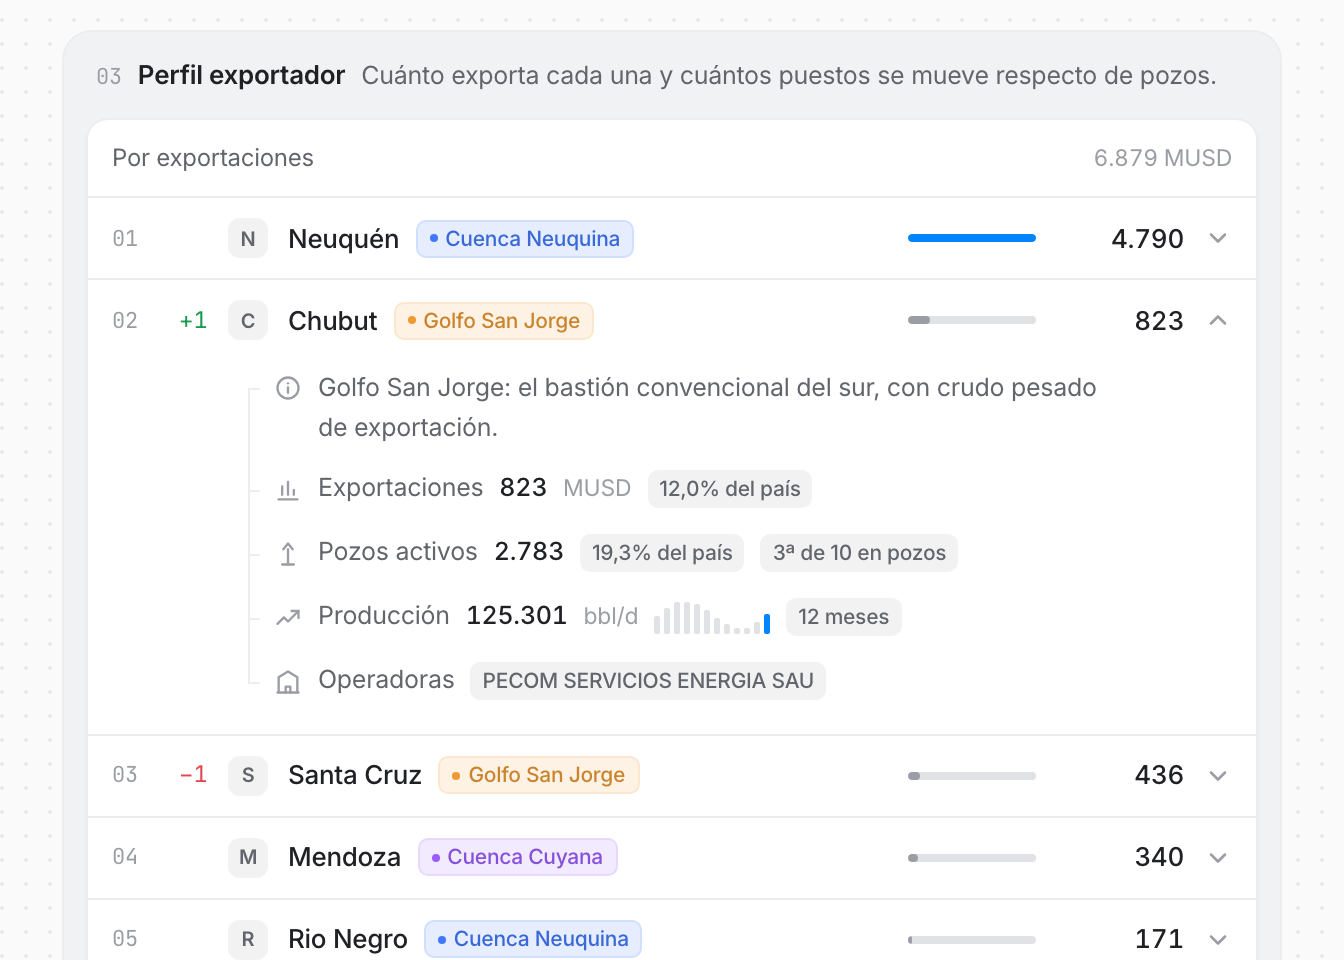
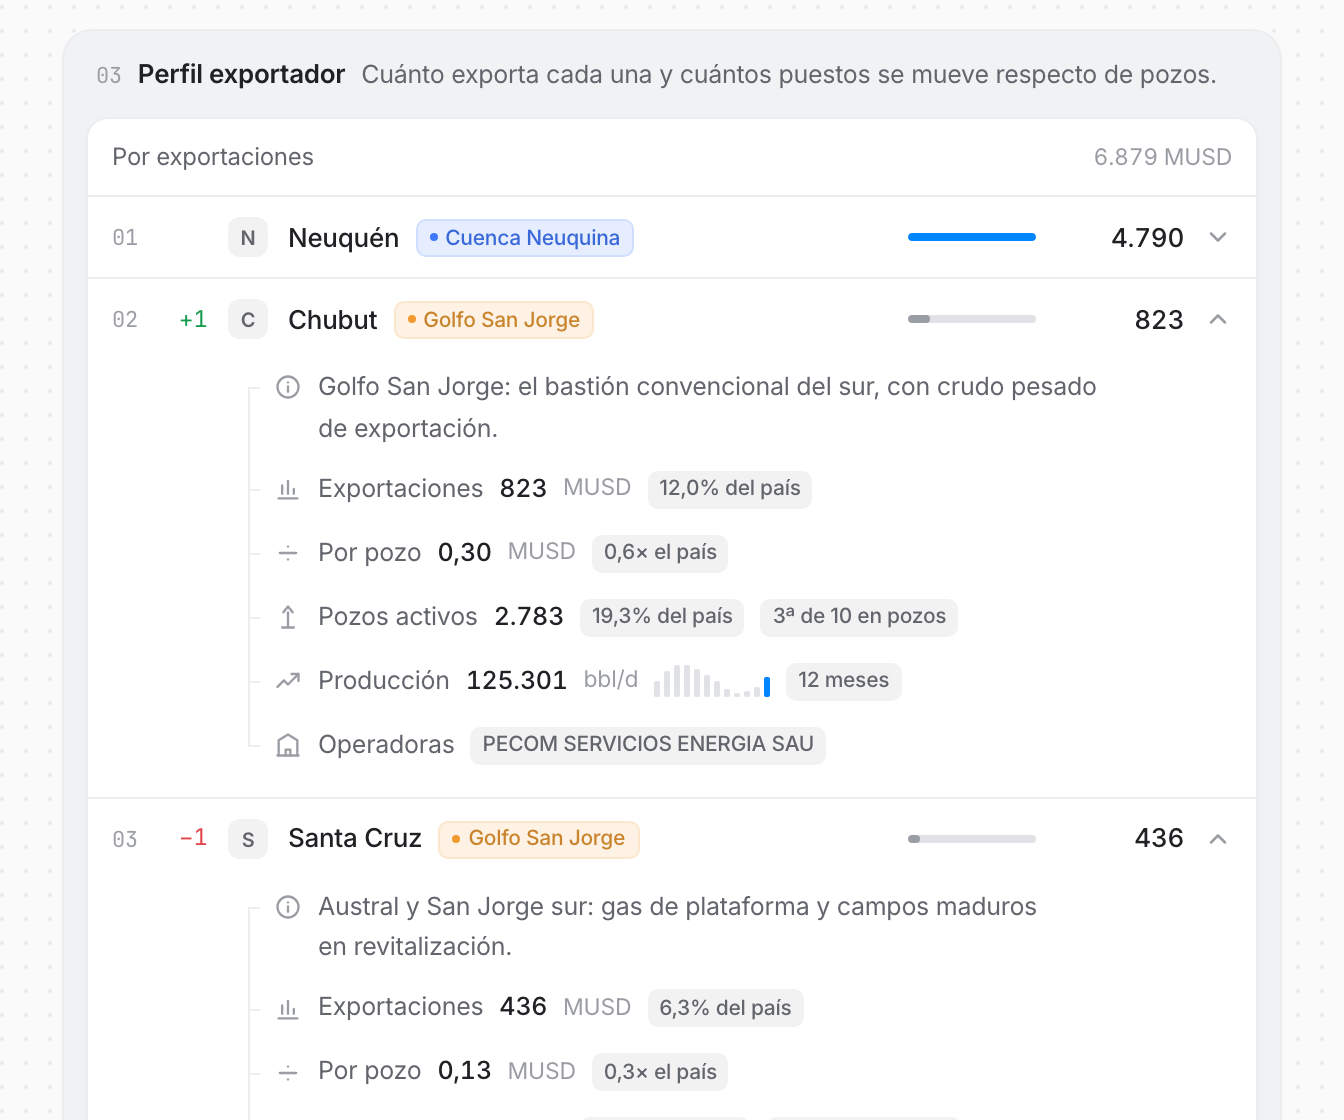
v2(provincias): "por pozo" — la lectura de exportaciones que explica el movimiento
El desglose de la lista de exportaciones ya abría por exportaciones, pero las
lecturas de adentro seguían siendo de pozos: cuántos hay y cuánto producen.

Se agrega "Por pozo": los MUSD que exporta cada pozo activo. Sale de dividir
dos cifras reales del sitio, no de derivar nada, y es justamente lo que explica
la columna de movimiento que la sección muestra al costado. Chubut sube un
puesto sobre Santa Cruz porque exporta 0,30 MUSD por pozo contra 0,13, con 500
pozos menos. El badge compara contra la vara del país —6.879/14.441 = 0,476—,
así que Chubut es 0,6× y Neuquén 2,1×.

Va sólo en la lista de exportaciones, que es la regla que ya seguía el orden de
los pasos: las lecturas siguen a la métrica que ordena la lista.

El multiplicador NO se muestra debajo de 100 pozos. Ahí el cociente lo domina
el denominador y no dice nada de la provincia: Salta da 32,70 MUSD por pozo
—68,6 veces el país— sobre UN pozo, y el Estado Nacional 20,25 sobre ocho. En
esas cuatro filas el badge pasa a decir cuántos pozos hay, que es exactamente
lo que explica el número. Con menos de 100 pozos, uno solo mueve el cociente
más de un 1%.

Verificado a 375 / 640 / 1024 / 1440: pasos de 28 en desktop y 44 a 375, riel
con desfasaje 0 en las dos listas, cero desbordes.

diff --git a/apps/ui-prototype/src/app/v2/provincias/FilaProvincia.tsx b/apps/ui-prototype/src/app/v2/provincias/FilaProvincia.tsx
@@ -48,6 +48,7 @@ export function FilaProvincia({
   metrica,
   pctPozos,
   pctExpo,
+  promedioPorPozo,
   puestoPozos,
   puestoExpo,
   totalProvincias,
@@ -78,6 +79,9 @@ export function FilaProvincia({
       total de la cabecera. No confundir con Province.expSharePct, que tiene
       otro denominador: ver el comentario del fixture. */
   pctExpo: number
+  /** MUSD exportados por pozo activo en todo el país: 6.879 / 14.441 = 0,476.
+      Es la vara contra la que se compara la intensidad de cada provincia. */
+  promedioPorPozo: number
   /** puestos en cada ranking. Sin valor en el Estado Nacional, que aparece en
       las listas pero no es una provincia y no tiene puesto. */
   puestoPozos?: number
@@ -94,7 +98,14 @@ export function FilaProvincia({
   const pasos =
     metrica === 'pozos'
       ? (['pozos', 'produccion', 'exportaciones'] as const)
-      : (['exportaciones', 'pozos', 'produccion'] as const)
+      : (['exportaciones', 'intensidad', 'pozos', 'produccion'] as const)
+  /* Cuánto exporta cada pozo. Es la lectura que EXPLICA la columna de
+     movimiento: Chubut sube un puesto sobre Santa Cruz porque exporta 0,30
+     MUSD por pozo contra 0,13, con 500 pozos menos.
+
+     Y es honestamente de exportaciones, que era el reclamo: sale de dividir
+     dos cifras reales del sitio, no de derivar nada. */
+  const porPozo = p.exportsMUSD / p.wells
 
   return (
     <div style={{ borderBottom: '1px solid var(--line)' }}>
@@ -260,6 +271,27 @@ export function FilaProvincia({
                         : []),
                     ]}
                   />
+                ) : clave === 'intensidad' ? (
+                  /* El multiplicador contra el promedio del país sólo se
+                     muestra con 100 pozos o más. Debajo de eso el cociente lo
+                     domina el denominador y no dice nada de la provincia:
+                     Salta da 32,70 MUSD por pozo —68,6 veces el país— sobre UN
+                     pozo, y el Estado Nacional 20,25 sobre ocho. En esas filas
+                     el badge pasa a decir cuántos pozos hay, que es justamente
+                     lo que explica el número. Con menos de 100 pozos, uno solo
+                     mueve el cociente más de un 1%. */
+                  <Paso
+                    key="int"
+                    icono="intensidad"
+                    rotulo="Por pozo"
+                    valor={formatDecimal(porPozo, 2)}
+                    unidad="MUSD"
+                    badges={[
+                      p.wells >= 100
+                        ? `${formatDecimal(porPozo / promedioPorPozo, 1)}× el país`
+                        : `sobre ${formatInteger(p.wells)} ${p.wells === 1 ? 'pozo' : 'pozos'}`,
+                    ]}
+                  />
                 ) : clave === 'exportaciones' ? (
                   <Paso
                     key="expo"
@@ -347,7 +379,7 @@ function Paso({
   meses,
   badges,
 }: {
-  icono: 'pozo' | 'expo' | 'operadora' | 'produccion'
+  icono: 'pozo' | 'expo' | 'operadora' | 'produccion' | 'intensidad'
   rotulo: string
   valor?: string
   unidad?: string
@@ -412,6 +444,13 @@ function Paso({
           <>
             <path d="M3 17l5.5-5.5 3.5 3.5L21 6" />
             <path d="M15 6h6v6" />
+          </>
+        )}
+        {icono === 'intensidad' && (
+          <>
+            <path d="M5 12h14" />
+            <path d="M12 6.5h.01" />
+            <path d="M12 17.5h.01" />
           </>
         )}
         {icono === 'operadora' && (

diff --git a/apps/ui-prototype/src/app/v2/provincias/page.tsx b/apps/ui-prototype/src/app/v2/provincias/page.tsx
@@ -39,6 +39,8 @@ export default function V2Provincias() {
   }, new Map<string, { nombre: string; provincias: number; pozos: number }>()).values()]
     .sort((a, b) => b.pozos - a.pozos)
   const pozosEnCuencas = cuencas.reduce((s, c) => s + c.pozos, 0)
+  /* La vara de intensidad exportadora: MUSD por pozo activo en todo el país. */
+  const promedioPorPozo = totalExpo / totalPozos
   /* Los doce rótulos de mes son los mismos para todas las filas: se formatean
      una vez acá, en el servidor, y no once veces en el cliente. */
   const meses = NATIONAL_SERIES.slice(-12).map((m) => formatMonth(`${m.period}-01`))
@@ -99,6 +101,7 @@ export default function V2Provincias() {
               metrica="pozos"
               pctPozos={(p.wells / totalPozos) * 100}
               pctExpo={(p.exportsMUSD / totalExpo) * 100}
+              promedioPorPozo={promedioPorPozo}
               puestoPozos={puestoPozosProvDe.get(p.slug)}
               puestoExpo={puestoExpoDe.get(p.slug)}
               totalProvincias={SOLO_PROVINCIAS.length}
@@ -158,6 +161,7 @@ export default function V2Provincias() {
               metrica="exportaciones"
               pctPozos={(p.wells / totalPozos) * 100}
               pctExpo={(p.exportsMUSD / totalExpo) * 100}
+              promedioPorPozo={promedioPorPozo}
               puestoPozos={puestoPozosProvDe.get(p.slug)}
               puestoExpo={puestoExpoDe.get(p.slug)}
               totalProvincias={SOLO_PROVINCIAS.length}
